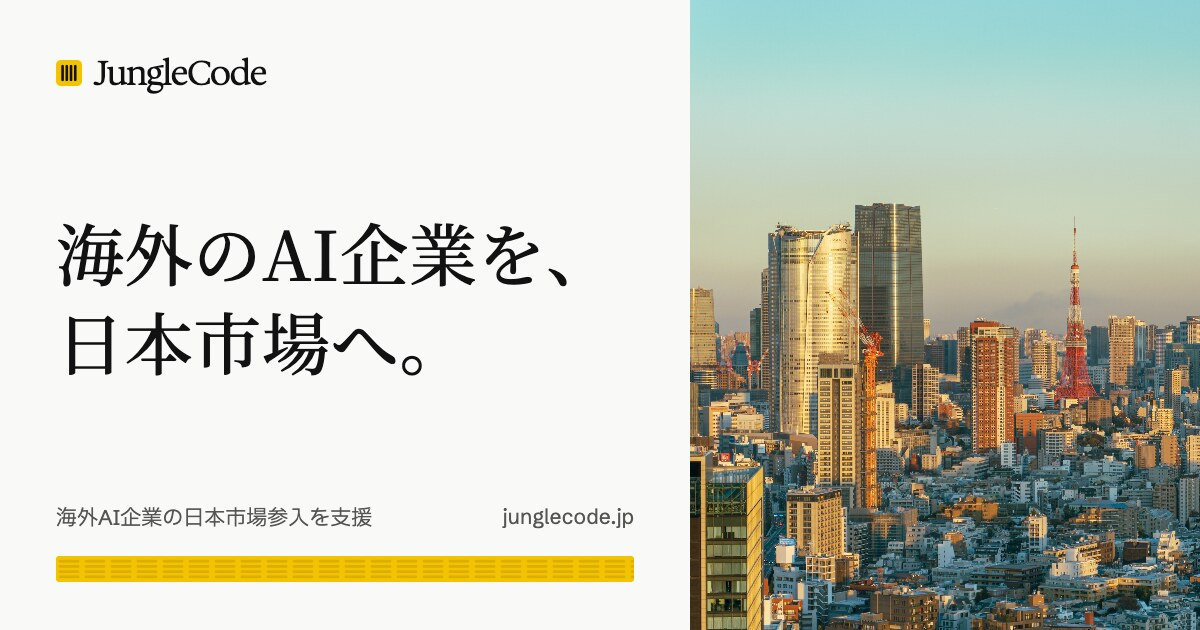
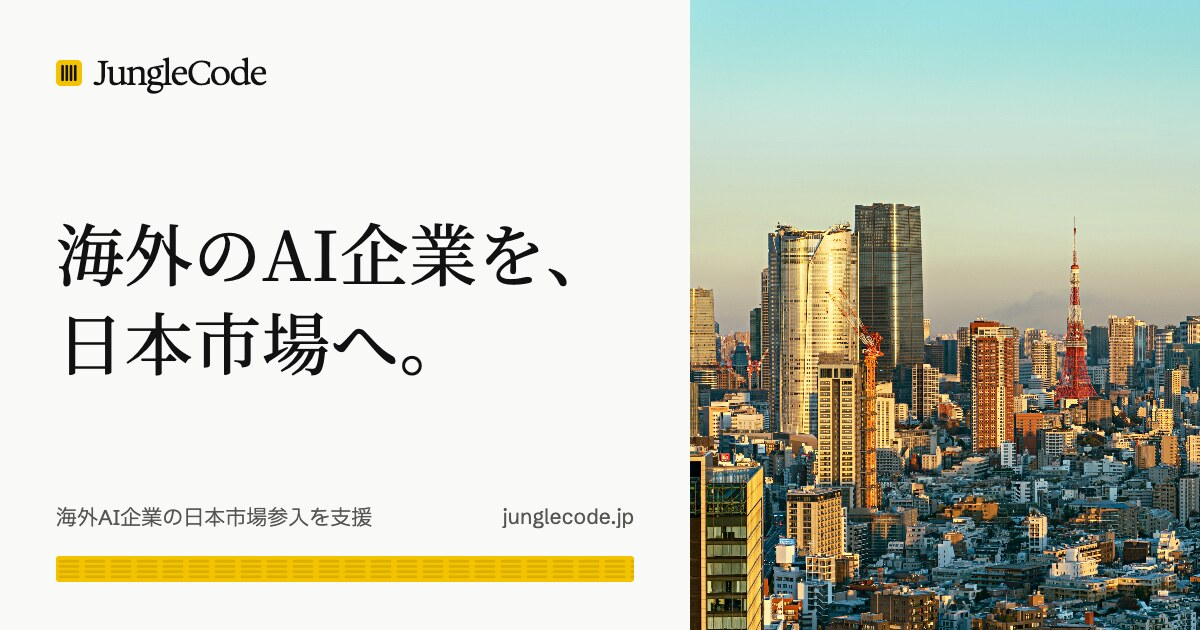
Lift the contrast of the daytime hero photo
The day view was flat from late-afternoon haze. It now has a light
grade: black and white points set, a gentle brightness curve and a
touch of clarity, with colour left as shot so it doesn't look
over-processed. The credits page notes that photos may be colour
graded, and the share cards use the graded view.

Changed region(s): [[0.555, 0.3317, 1.0, 1.0]]

diff --git a/src/data/ja.ts b/src/data/ja.ts
@@ -328,7 +328,7 @@ export const ja: SiteCopy = {
     by: '撮影',
     licence: 'ライセンス',
     source: 'ウィキメディア・コモンズの元画像',
-    adapted: 'このサイト用にトリミングと縮小をしています。',
+    adapted: 'このサイト用にトリミング、縮小、色調の調整をしています。',
     shareAlike: '加工した画像も同じライセンスで公開しています。',
   },
   privacy: {

diff --git a/src/data/en.ts b/src/data/en.ts
@@ -327,7 +327,7 @@ export const en = {
     by: 'Photograph by',
     licence: 'Licence',
     source: 'Original on Wikimedia Commons',
-    adapted: 'Cropped and resized for this site.',
+    adapted: 'Cropped, resized or colour graded for this site.',
     shareAlike: 'Our version is shared under the same licence.',
   },
   privacy: {

diff --git a/README.md b/README.md
@@ -51,7 +51,7 @@ Headlines rise in on load, text rises and photographs unmask as they arrive, fig
 
 ## Images
 
-Four photographs are real, openly licensed work from Wikimedia Commons: the home page hero's day and night views of Roppongi with Tokyo Tower behind, by David Kernan (the day one is cropped so the towers lead), Tokyo Station's Marunouchi side by 掬茶, and a Shinkansen at Tokyo by David Kernan. Their licences (CC BY 4.0 and CC BY-SA 4.0) need a visible credit, so the credits page at `/credits/` lists each one, and a small "Photo credits" link at the foot of every page leads there. The list lives in `src/data/credits.ts`. Add any new real photo there.
+Four photographs are real, openly licensed work from Wikimedia Commons: the home page hero's day and night views of Roppongi with Tokyo Tower behind, by David Kernan (the day one is cropped so the towers lead, with a light contrast and clarity grade to cut the haze), Tokyo Station's Marunouchi side by 掬茶, and a Shinkansen at Tokyo by David Kernan. Their licences (CC BY 4.0 and CC BY-SA 4.0) need a visible credit, so the credits page at `/credits/` lists each one, and a small "Photo credits" link at the foot of every page leads there. The list lives in `src/data/credits.ts`. Add any new real photo there.
 
 The hero shows its night photo from 6pm to 6am on the visitor's own clock. Add `?daypart=day` or `?daypart=night` to pin it for review.
 
